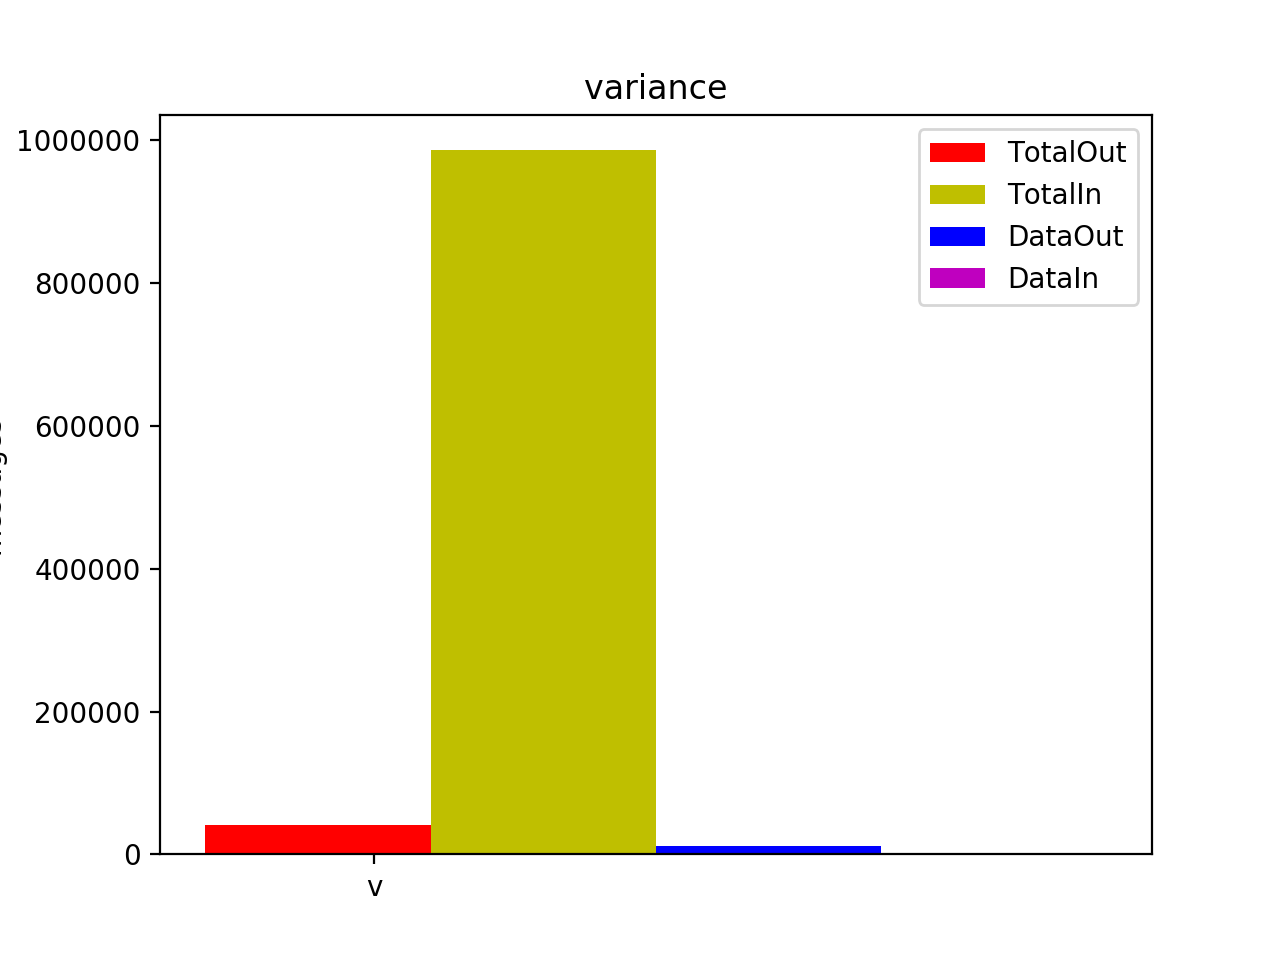
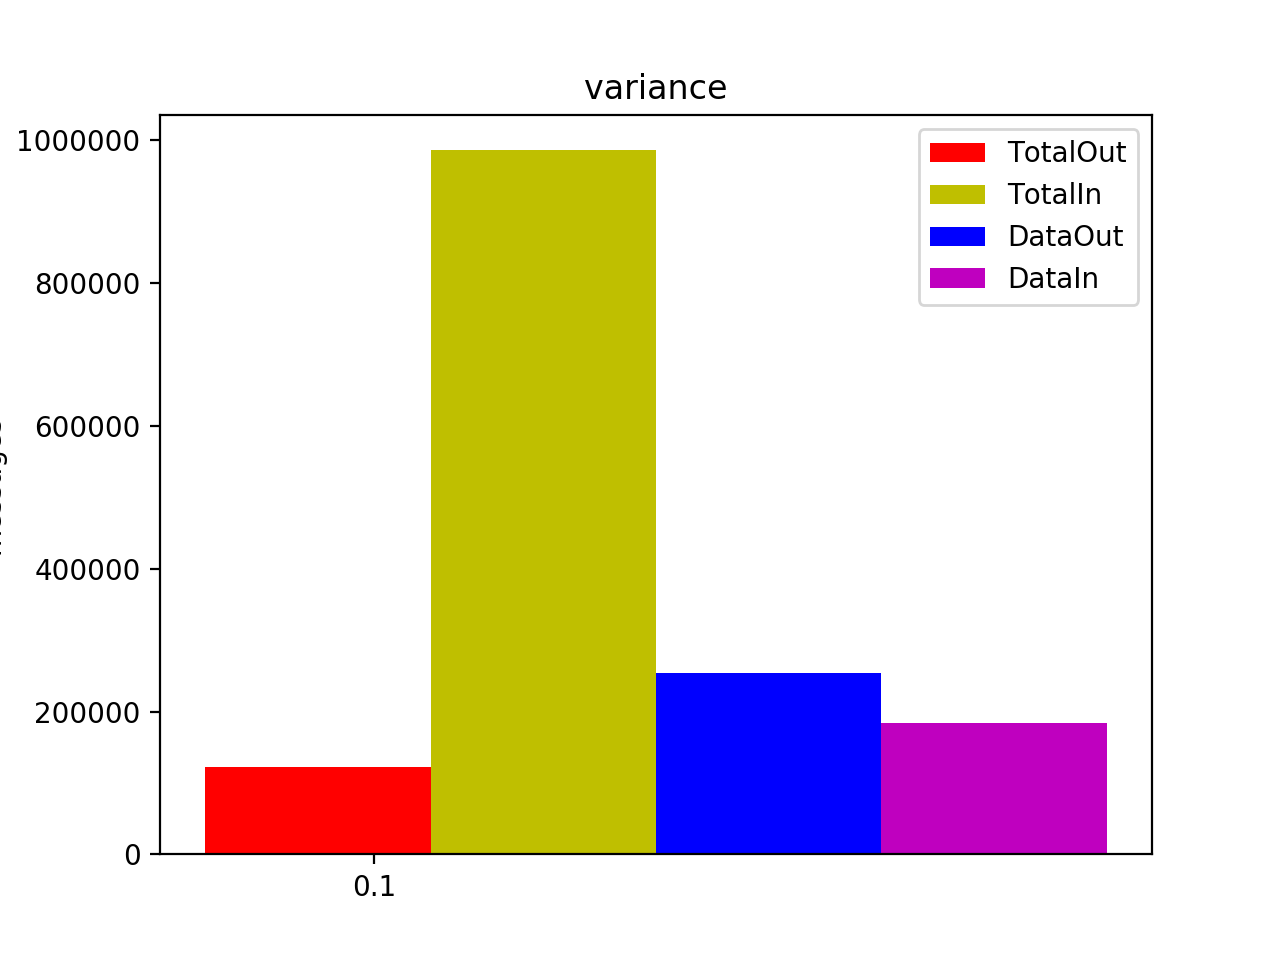
tried stacked diagramm for totalOut/In

Changed region(s): [[0.5, 0.6875, 0.875, 0.9062], [0.1562, 0.7812, 0.3438, 0.875], [0.2812, 0.9062, 0.3125, 0.9375]]

diff --git a/plot/messagePlot.py b/plot/messagePlot.py
@@ -3,6 +3,7 @@ import matplotlib.pyplot as plt
 import numpy as np
 import argparse
 import os
+import operator
 
 def plotterVar(file_seq, path):
     messages = pandas.read_csv(path+"/sentdata_dump"+file_seq+".dat", delimiter=';')
@@ -16,7 +17,7 @@ def plotterVar(file_seq, path):
     totalOut_means = (tOvar)
 
     ind = np.arange(N)  # the x locations for the groups
-    width = 0.5     # the width of the bars
+    width = 0.4     # the width of the bars
 
     fig, ax = plt.subplots()
     rects1 = ax.bar(ind, totalOut_means, width, color='r')
@@ -35,7 +36,6 @@ def plotterVar(file_seq, path):
     ax.set_ylabel('messages')
     ax.set_title('variance')
     ax.set_xticks(ind + width / 4)
-    ax.set_xticklabels(('varianz'))
 
     ax.legend((rects1[0], rects2[0], rects3[0], rects4[0]), ('TotalOut', 'TotalIn','DataOut','DataIn'))
 
@@ -87,18 +87,16 @@ def plotterAvg(file_seq, path):
     # add some text for labels, title and axes ticks
     ax.set_ylabel('Messages')
     ax.set_title('AvgNumbers')
-    ax.set_xticks(ind + width / 4)
+    ax.set_xticks(ind + width / 3)
     ax.set_xticklabels(('min', 'max', 'avg'))
 
     ax.legend((rects1[0], rects2[0], rects3[0], rects4[0]), ('TotalOut', 'TotalIn','DataOut','DataIn'))
 
     plt.savefig("AvgNumbers"'.png', dpi = (200))
 
-
+    """""
     def autolabel(rects):
-        """
         Attach a text label above each bar displaying its height
-        """
         for rect in rects:
             height = rect.get_height()
             ax.text(rect.get_x() + rect.get_width()/4., 1.2*height,
@@ -109,10 +107,46 @@ def plotterAvg(file_seq, path):
     autolabel(rects2)
     autolabel(rects3)
     autolabel(rects4)
+    """
 
-    # plt.show()
+def splitSum(msg):
+    sumIn  =0
+    sumOut =0
+    for all in msg:
+        a,b=all.split("/")
+        print(a,b)
+        sumIn= sumIn+int(a)
+        sumOut= sumOut+int(b)
+    print ("--")
+    print (sumIn,sumOut)
+    return(sumIn,sumOut)
+
+def plotterData(file_seq, path):
+
+    messages = pandas.read_csv(path+"/sentdata_dump"+file_seq+".dat", delimiter=';')
+
+    dataOut = messages.iloc[:,3].sum()
+    dataIn = messages.iloc[:,4].sum()
+
+    std_dO=messages.loc[0:,'dataOut'].std()
+    std_dI=messages.loc[0:,'dataIn'].std()
+
+    mpl_fig = plt.figure()
+    ax = mpl_fig.add_subplot(111)
+    N = 1
+    ind = np.arange(N)  # the x locations for the groups
+    width = 0.35       # the width of the bars
 
 
+    rects1 = ax.bar(ind, dataOut, width, color='g', yerr=std_dO)
+    rects2 = ax.bar(ind + width, dataIn, width, color='y', yerr=std_dI)
+
+    ax.set_ylabel('data')
+    ax.set_title('Data')
+    ax.set_xticks(ind + width / 2.)
+
+    ax.legend((rects1[0], rects2[0]), ('DataOut','DataIn'))
+    plt.savefig("Data"'.png', dpi = (200))
 
 
 def plotterTotal(file_seq, path):
@@ -122,64 +156,91 @@ def plotterTotal(file_seq, path):
 
     print(messages)
 
-    totalOut = messages.iloc[:,1].sum()
-    totalIn = messages.iloc[:,2].sum()
-    dataOut = messages.iloc[:,3].sum()
-    dataIn = messages.iloc[:,4].sum()
+    requestIn, requestOut = splitSum(messages.iloc[:,7])
+    request=(requestOut, requestIn)
+
+    offerIn, offerOut = splitSum(messages.iloc[:,8])
+    offer= (offerOut,offerIn)
+
+    acceptIn, acceptOut = splitSum(messages.iloc[:,9])
+    accept=(acceptOut, acceptIn)
+
+    datamIn, datamOut = splitSum(messages.iloc[:,10])
+    datam=(datamOut,datamIn)
+
+    dataAckIn, dataAckOut = splitSum(messages.iloc[:,11])
+    dataAck= (dataAckOut,dataAckIn)
+
+    CancelIn, CancelOut = splitSum(messages.iloc[:,12])
+    Cancel=(CancelOut,CancelIn)
+
+    TellMeIn, TellMeOut = splitSum(messages.iloc[:,13])
+    TellMe=(TellMeOut,TellMeIn)
+
+    ListResponseIn, ListResponseOut = splitSum(messages.iloc[:,14])
+    ListResponse=(ListResponseOut,ListResponseIn)
+
+    print(request, accept,Cancel)
+
 
     std_tO=messages.loc[0:,'totalOut'].std()
     std_tI=messages.loc[0:,'totalIn'].std()
-    std_dO=messages.loc[0:,'dataOut'].std()
-    std_dI=messages.loc[0:,'dataIn'].std()
+
+    std = (std_tO,std_tI)
+
 
     N = 2
-    out_numb = (totalOut, dataOut)
-    out_std = (std_tO,std_dO)
+
 
     ind = np.arange(N)  # the x locations for the groups
-    width = 0.35       # the width of the bars
-
+    width = 0.4       # the width of the bars
     fig, ax = plt.subplots()
-    rects1 = ax.bar(ind, out_numb, width, color='r', yerr=out_std)
+    print ("............")
+    print (request,offer,accept)
 
-    in_numb = (totalIn, dataIn)
-    in_std = (std_tI,std_dI)
-    rects2 = ax.bar(ind + width, in_numb, width, color='y', yerr=in_std)
+
+    p1 = ax.bar(ind, request, width, color='r')
+    p2 = ax.bar(ind, offer, width,bottom=request, color='g')
+    p3 = ax.bar(ind, accept, width,bottom=offer, color=(0.5,1.0,0.62))
+    p4 = ax.bar(ind, datam, width, bottom=accept, color='c')
+    p5 = ax.bar(ind, dataAck, width,bottom=datam, color='m')
+    p6 = ax.bar(ind, TellMe, width,bottom=dataAck, color='b')
+    p7 = ax.bar(ind, Cancel, width,bottom=TellMe, color='y')
+    p8 = ax.bar(ind, ListResponse, width,bottom=Cancel, color=(1.0,0.7,0.62))
 
     # add some text for labels, title and axes ticks
     ax.set_ylabel('Messages')
     ax.set_title('Total')
-    ax.set_xticks(ind + width / 2)
-    ax.set_xticklabels(('totalOut/In', 'dataOut/In'))
+    ax.set_xticks(ind+width/2)
+    ax.set_xticklabels(('totalOut', 'TotalIn'))
 
-    ax.legend((rects1[0], rects2[0]), ('Out', 'In'))
+    ax.legend((p1[0], p2[0], p3[0], p4[0], p5[0], p6[0], p7[0], p8[0]),
+              ('Request', 'Offer','Accept','DataM','DataAck','TellMe','Cancel','ListResponse'))
 
     plt.savefig("totalNumbers"'.png', dpi = (200))
 
 
 
-
+    """""
     def autolabel(rects):
-        """
+        
         Attach a text label above each bar displaying its height
-        """
+        
         for rect in rects:
             height = rect.get_height()
             ax.text(rect.get_x() + rect.get_width()/2., 1.2*height,
                     '%d' % int(height),
                     ha='center', va='bottom')
 
-    autolabel(rects1)
-    autolabel(rects2)
-
-    #plt.show()
-
-    print(totalOut)
-    print (totalIn)
-    print (dataIn)
-    print (dataOut)
-
-
+    autolabel(p1)
+    autolabel(p2)
+    autolabel(p3)
+    autolabel(p4)
+    autolabel(p5)
+    autolabel(p6)
+    autolabel(p7)
+    autolabel(p8)
+    """
 
 
 if __name__ == '__main__':
@@ -202,3 +263,4 @@ if __name__ == '__main__':
     plotterTotal(seqMax,args.path)
     plotterAvg(seqMax,args.path)
     plotterVar(seqMax,args.path)
+    plotterData(seqMax,args.path)
